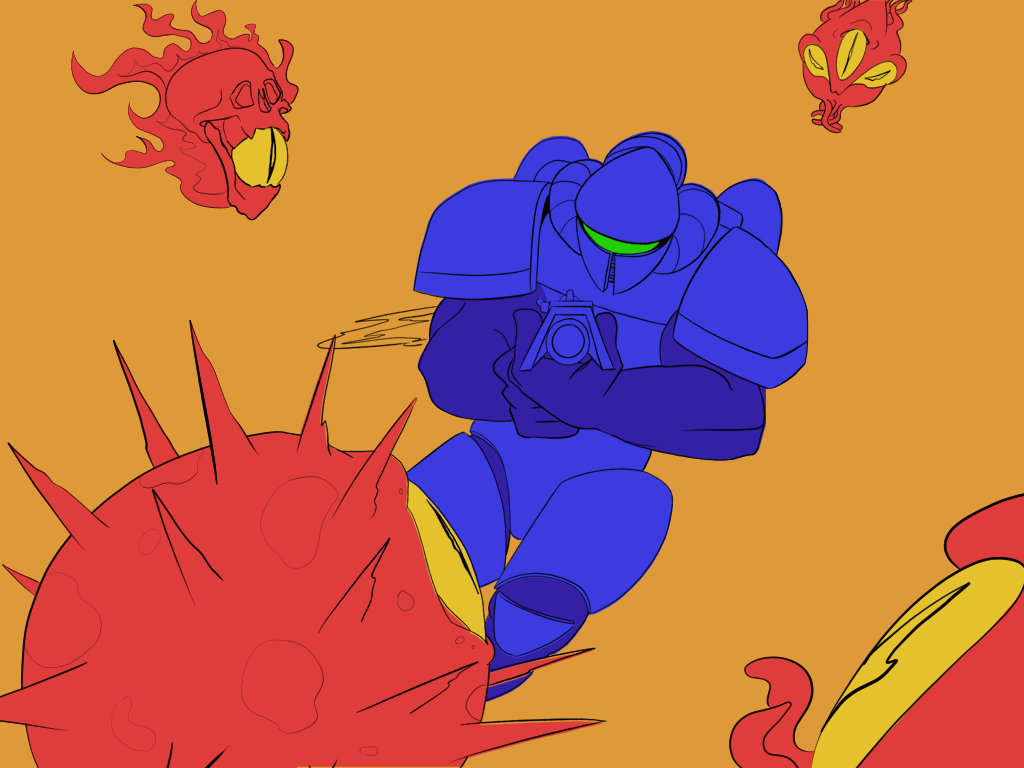
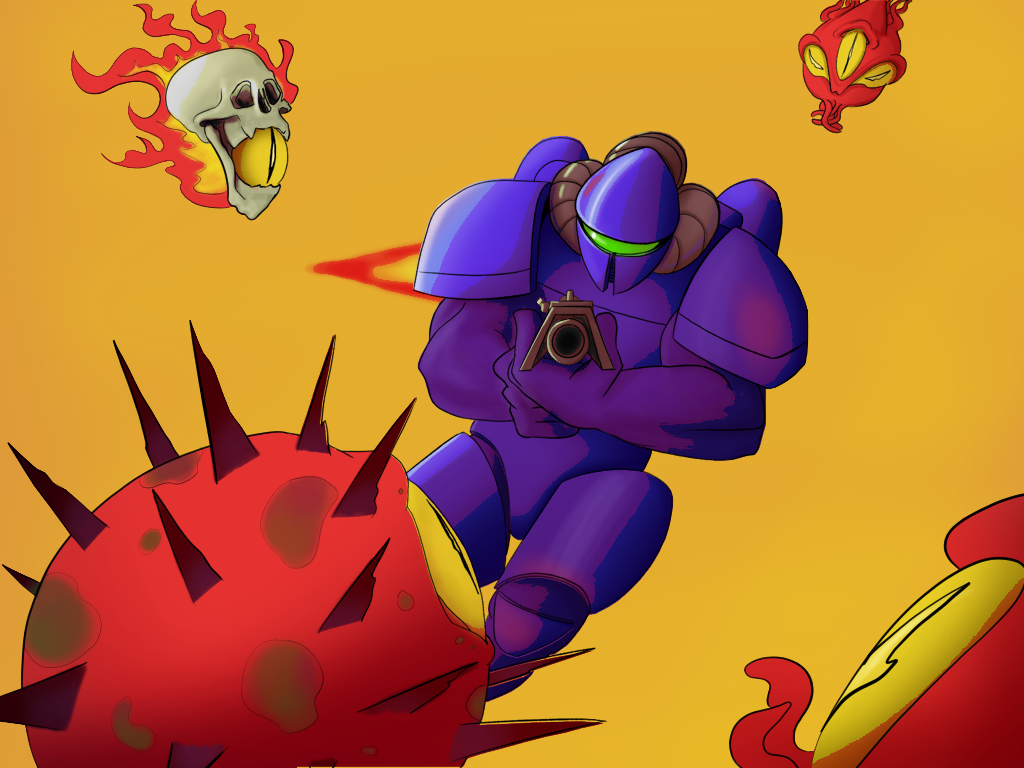
add movement player animation

diff --git a/Avikoids/src/Objects/SpaceShip.cpp b/Avikoids/src/Objects/SpaceShip.cpp
@@ -40,7 +40,8 @@ namespace asteroids
 				}
 				else
 				{
-					if (GetTime() - autoShootingTimer > 0.23)
+					float shootRecoil = 0.23f;
+					if (GetTime() - autoShootingTimer > shootRecoil)
 					{
 						SpaceshipShoot(player);
 
@@ -59,16 +60,18 @@ namespace asteroids
 		{
 			if (player.IsAlive)
 			{
-				DrawTexturePro(player.texture, player.source, player.dest, player.origin, static_cast<float>(player.shipRotation), WHITE);
+				DrawCircle(static_cast<int>(player.hitBox.position.x), static_cast<int>(player.hitBox.position.y), player.hitBox.radius, GREEN);
+				DrawTexturePro(player.texture, player.source, player.dest, Vector2AddValue(player.origin, player.hitBox.radius), static_cast<float>(player.shipRotation), WHITE);
 			}
 		}
 
 		void InitPlayer(Spaceship& player)
 		{
-			float scale = 0.15f;
+			float scale = 0.18f;
 			float WidthF = static_cast<float>(GetScreenWidth());
 			float HeightF = static_cast<float>(GetScreenHeight());
 			Texture2D bulletTexture = LoadTexture("res/PNG/Game/Play/Bullets/BaseBullet.png");
+
 
 			player.lives = 3;
 			player.IsAlive = true;
@@ -78,11 +81,17 @@ namespace asteroids
 			player.score = 0;
 			player.velocity = { 0, 0 };
 
+			const float playerOriginWidth = static_cast<float>((player.source.width / 3) / 4) * scale - 20;
+			const float playerOriginHeight = static_cast<float> (player.source.height / 4) * scale;
+
+			float playerDestWidth = (player.hitBox.radius * 8) / 3;
+			float playerDestHeight = player.hitBox.radius * 5;
+
 			player.source = { 0,0,static_cast<float>(player.texture.width),static_cast<float>(player.texture.height) };
 
-			player.dest = { player.hitBox.position.x,player.hitBox.position.y,static_cast<float>(player.texture.width) * scale,static_cast<float>(player.texture.height) * scale };
+			player.dest = { player.hitBox.position.x,player.hitBox.position.y,playerDestWidth,playerDestHeight };
 
-			player.origin = { static_cast<float>(player.source.width / 2) * scale , static_cast<float> (player.source.height / 4) * scale };
+			player.origin = { playerOriginWidth, playerOriginHeight };
 
 			Shoot = LoadSound("res/MUSIC/SoundEffects/ShootSound.mp3");
 
@@ -181,12 +190,30 @@ namespace asteroids
 
 			if (IsMouseButtonDown(MOUSE_BUTTON_RIGHT))
 			{
+				float texturePos1 = player.texture.width / 3.0f;
+				float texturePos2 = player.texture.width / 3.0f * 2.0f;
+				if (player.source.x == texturePos1)
+				{
+					player.source = { texturePos2,0,static_cast<float>(player.texture.width / 3),static_cast<float>(player.texture.height) };
+				}
+				else
+				{
+					player.source = { texturePos1,0,static_cast<float>(player.texture.width / 3),static_cast<float>(player.texture.height) };
+				}
+
 				player.velocity = Vector2Add(player.velocity, Vector2Scale(direction, player.aceleration * GetFrameTime()));
 			}
-
+			else
+			{
+				player.source = { 0,0,static_cast<float>(player.texture.width / 3),static_cast<float>(player.texture.height) };
+			}
 			player.hitBox.position = Vector2Add(player.hitBox.position, Vector2Scale(player.velocity, GetFrameTime()));
-			player.dest.x = player.hitBox.position.x;
-			player.dest.y = player.hitBox.position.y;
+
+
+			float playerDestWidth = (player.hitBox.radius * 8) / 3;
+			float playerDestHeight = player.hitBox.radius * 5;
+			player.dest = { player.hitBox.position.x,player.hitBox.position.y,playerDestWidth,playerDestHeight };
+
 		}
 
 

diff --git a/Avikoids/src/Objects/Asteroids.cpp b/Avikoids/src/Objects/Asteroids.cpp
@@ -287,7 +287,9 @@ namespace asteroids
 					followingAsteroid[i].dest = { followingAsteroid[i].hitBox.position.x,followingAsteroid[i].hitBox.position.y,static_cast<float>(followingAsteroid[i].texture.width) * followingAsteroid[i].SCALE,static_cast<float>(followingAsteroid[i].texture.height) * followingAsteroid[i].SCALE };
 					followingAsteroid[i].origin = { static_cast<float>(followingAsteroid[i].source.width / 2) * followingAsteroid[i].SCALE, static_cast<float> (followingAsteroid[i].source.height / 2) * followingAsteroid[i].SCALE };
 
-					if (followingAsteroid[i].velocity < -0.5f)
+					float followingAsteroidMaxVelocity = -0.5f;
+
+					if (followingAsteroid[i].velocity > followingAsteroidMaxVelocity)
 					{
 						followingAsteroid[i].velocity = -0.5f;
 					}
@@ -299,7 +301,6 @@ namespace asteroids
 				}
 				else if (GetTime() - timerFollowingAsteroidSpawn > followingAsteroid[i].FOLLOWING_ASTEROID_SPAWN_RECOIL && !followingAsteroid[i].IsAlive && followingAsteroidsCount < maxFollowingAsteroidSpawn)
 				{
-
 					CreateFollowingAsteroid(followingAsteroid[i]);
 					timerFollowingAsteroidSpawn = GetTime();
 				}

diff --git a/Avikoids/src/Screens/Game.cpp b/Avikoids/src/Screens/Game.cpp
@@ -164,7 +164,6 @@ namespace asteroids
 			{
 				DrawPowerUps();
 
-				SpaceshipDraw(player);
 
 				for (int i = 0; i < player.maxBullets; i++)
 				{
@@ -173,6 +172,8 @@ namespace asteroids
 
 				DrawAsteroid(bigAsteroids, mediumAsteroids, smallAsteroids, followingAsteroids);
 
+				SpaceshipDraw(player);
+				
 				DrawTextEx(TextFont,TextFormat("SCORE: %i", player.score), ShowScore.position, ShowScore.fontSize,0, ShowScore.color);
 				DrawTextEx(TextFont,TextFormat("LIVES: %i", player.lives), ShowPlayerLife.position, ShowPlayerLife.fontSize,0, ShowPlayerLife.color);
 

diff --git a/Avikoids/src/Objects/SpaceShip.h b/Avikoids/src/Objects/SpaceShip.h
@@ -20,6 +20,7 @@ namespace asteroids
 			Rectangle dest = {};
 			Rectangle source = {};
 			double shipRotation = {};
+			
 
 			Vector2 normalizedDirection = {};
 
